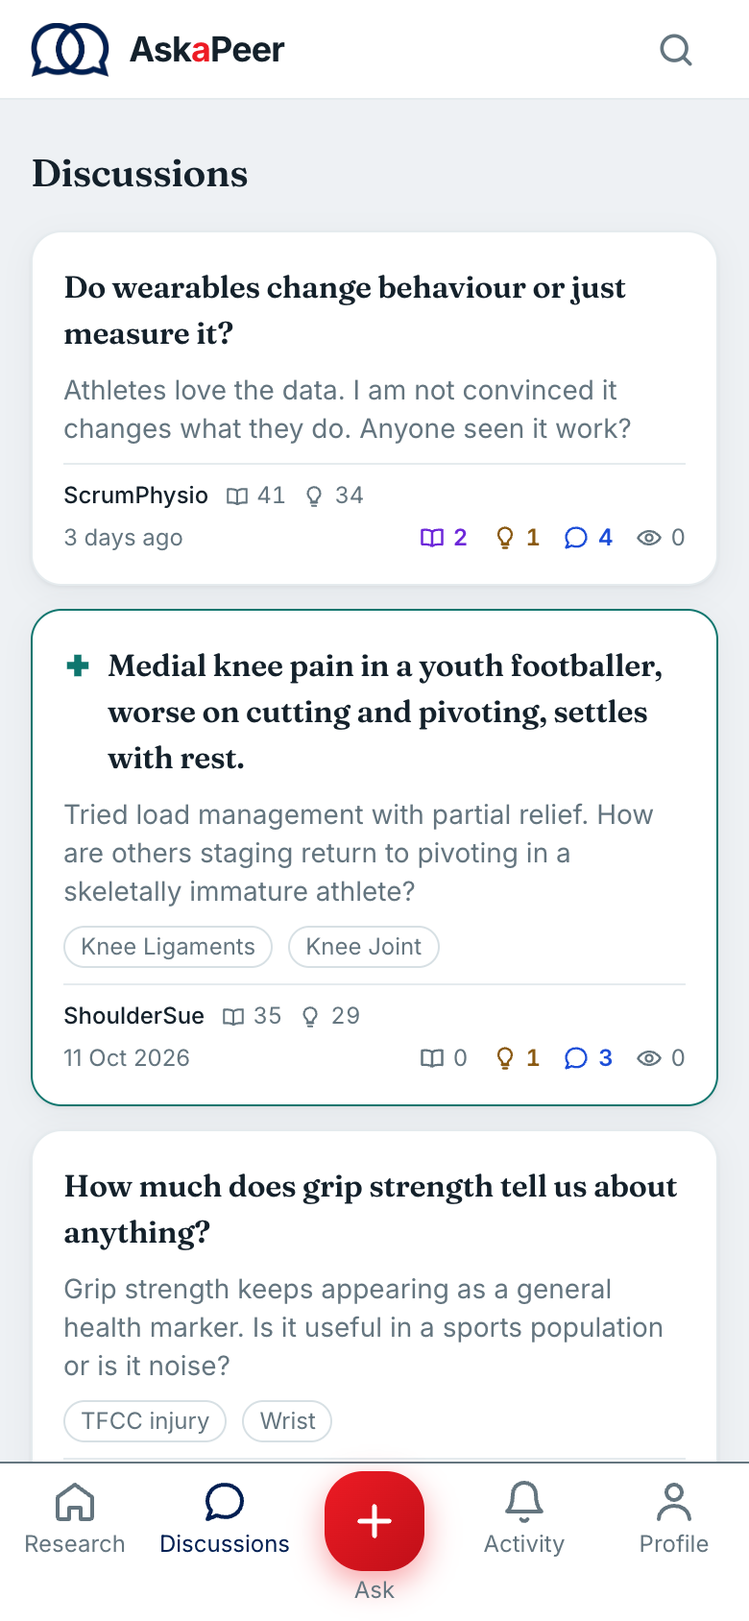
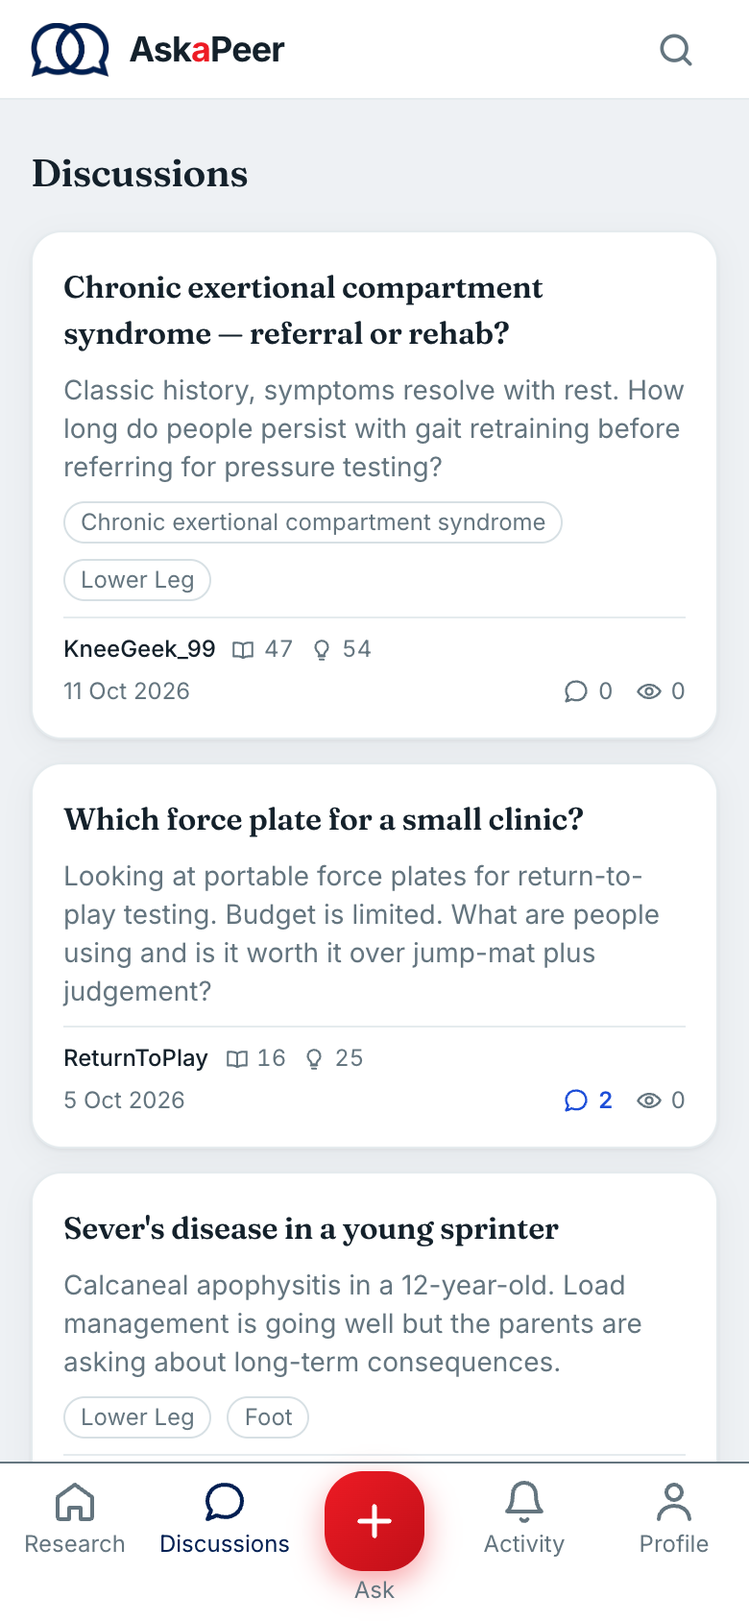
feat(kudos): Insightful and Useful are for answers only
Andrew asked whether questions need the awards; agreed with Adrian on 21 October
2026 that they don't. The awards say whether something helped you, which is an
answer's job; a good question shows in how many people follow it.

- API: the question award routes are removed (a stale client gets a 404).
- migration 0059: awards on questions and their "Your question was marked..."
  notifications deleted (test data); every member's totals recomputed from
  answers alone, so the grey totals now measure how helpful their answers are.
- card: line 2 is the date, answers and following; the question keeps Follow.
- the award button and its action accept answers only.
- seed: awards go to answers; style guide 0.3.1, CLAUDE.md, README,
  DEVELOPMENT.md and the welcome guide copy and screenshots updated.

Changed region(s): [[0.0308, 0.154, 0.9538, 0.8934], [0.0308, 0.6469, 0.0615, 0.6777]]

diff --git a/prototypes/research-feed/public/docs/style-guide.html b/prototypes/research-feed/public/docs/style-guide.html
@@ -1354,8 +1354,8 @@ kudos star+count).</li>
 (with the teal cross for a case, whose card also has a teal border) ·
 snippet · tags · a two-line footer. Line 1: the handle and the author’s
 grey Insightful and Useful totals. Line 2: the date, then the post’s
-Insightful, Useful, answers and following, icons and numbers only,
-always all four.</li>
+answers and following, icons and numbers only, always both. No awards on
+the card: they are given to answers only.</li>
 <li><strong>Answer card</strong> — inside a thread; author row, body,
 the Insightful and Useful buttons, then the text links (Reply, Report,
 Report this handle, Edit, Delete) on their own line. The
@@ -1375,8 +1375,10 @@ initials. Sizes sm/default/lg.</p>
 <h3 id="kudos-controls-insightful-and-useful">8.6 Kudos controls —
 Insightful and Useful</h3>
 <p>The product’s signature interactive elements. Two independent awards:
-anyone but the author may give either, both or neither to a question or
-an answer.</p>
+anyone but the author may give either, both or neither to an
+<strong>answer</strong>. Questions and cases are not awarded (Adrian and
+Andrew, 21 October 2026) — the awards say whether something helped you,
+and a good question shows in how many people follow it.</p>
 <ul>
 <li><strong>Anatomy:</strong> pill button, icon + count + word — “6
 Insightful”, “11 Useful”. The word is spelled out here because this is
@@ -1387,8 +1389,8 @@ in its colour once anyone has awarded it) → awarded by you (its
 <code>-tint</code> background, border and text in its colour). Toggling
 updates the count instantly. <strong>Your own post:</strong> the same
 pill without button behaviour.</li>
-<li><strong>Follow</strong> on a question is the same pill: eye + count
-+ “Follow”, tinted “Following” once you follow.</li>
+<li><strong>Follow</strong> is the question’s only pill: eye + count +
+“Follow”, tinted “Following” once you follow.</li>
 <li>Read-only counts (cards, My Q&amp;A) = icon + number, coloured above
 zero, grey at zero.</li>
 <li><strong>Accessibility:</strong> label as “Mark as insightful” /
@@ -1993,6 +1995,14 @@ library to replace the current emoji placeholders.</li>
 </tr>
 </thead>
 <tbody>
+<tr>
+<td>0.3.1</td>
+<td>2026-10-21</td>
+<td><strong>Awards on answers only.</strong> Insightful and Useful are
+no longer given to questions or cases; the card’s second line is the
+date, answers and following; the question keeps Follow alone. §8.3,
+§8.6.</td>
+</tr>
 <tr>
 <td>0.3</td>
 <td>2026-10-20</td>

diff --git a/apps/web/src/components/PostCard.tsx b/apps/web/src/components/PostCard.tsx
@@ -96,9 +96,11 @@ export async function PostCard({ post }: { post: PostCardDto }) {
         {/*
           Two lines, because they answer different questions (Option B). The first is the
           person: the handle and their standing, in grey. The second is this post: when it was
-          asked, and how it has done — Insightful, Useful, answers and following, each in its
-          own colour, grey at zero. Icons and numbers only, in tabular figures so they line up
-          down a scrolling list.
+          asked, then its answers and following, each in its own colour, grey at zero. Icons
+          and numbers only, in tabular figures so they line up down a scrolling list.
+
+          No Insightful or Useful here: those are awarded to answers only (Adrian and Andrew,
+          21 October 2026). A question's worth shows in how many people follow it.
         */}
         <span
           className="flex flex-col gap-1.5 border-t pt-2 text-xs"
@@ -116,8 +118,9 @@ export async function PostCard({ post }: { post: PostCardDto }) {
 }
 
 /**
- * The post's four counts. Every one is always shown — grey at zero, in its colour once it is
- * above zero (Adrian, 20 October) — so a card never changes shape as a discussion fills up.
+ * The post's two counts, answers and following. Both are always shown — grey at zero, in
+ * their colour once above zero (Adrian, 20 October) — so a card never changes shape as a
+ * discussion fills up.
  *
  * Following is the eye: everyone following the discussion except its author. See
  * `watcherCountSql` in the API.
@@ -126,8 +129,6 @@ async function PostStats({ post }: { post: PostCardDto }) {
   const t = await getTranslations('discussions');
   return (
     <span className="flex shrink-0 items-center gap-3" style={{ fontVariantNumeric: 'tabular-nums' }}>
-      <Stat kind="insightful" count={post.insightfulCount} label={t('insightful', { count: post.insightfulCount })} />
-      <Stat kind="useful" count={post.usefulCount} label={t('useful', { count: post.usefulCount })} />
       <Stat kind="answers" count={post.answerCount} label={t('answersCount', { count: post.answerCount })} />
       <Stat kind="follows" count={post.watcherCount} label={t('followingCount', { count: post.watcherCount })} />
     </span>

diff --git a/apps/api/src/forum/kudos.controller.ts b/apps/api/src/forum/kudos.controller.ts
@@ -17,36 +17,20 @@ import { KudosService } from './kudos.service';
 /** `insightful` | `useful` in the path; anything else is a 400 before the service runs. */
 const KIND = new ParseEnumPipe({ insightful: 'insightful', useful: 'useful' } as const);
 
-
 /**
- * EPIC-D §5. Award / retract kudos on a post or comment; each returns the target's
- * updated count and the caller's new `hasKudosed` state, so the client can settle the
- * toggle without a re-read.
+ * EPIC-D §5. Award / retract Insightful or Useful on an **answer**; each returns the answer's
+ * updated counts and the caller's per-kind state, so the client can settle the toggle without
+ * a re-read.
+ *
+ * ⚠ **Answers only** (Adrian and Andrew, 21 October 2026). The awards say whether something
+ * helped you, which is a property of an answer; the signal for a good question is Follow —
+ * "I want to know this too". The question routes were removed rather than left refusing, so a
+ * stale client gets a 404, and migration 0059 took the existing awards off questions.
  */
 @Controller()
 @UseGuards(JwtAuthGuard, AppAccessGuard)
 export class KudosController {
   constructor(private readonly kudos: KudosService) {}
-
-  @Post('posts/:postId/kudos/:kind')
-  awardPost(
-    @Req() req: Request & { member: AuthedMember },
-    @Param('postId', ParseUUIDPipe) postId: string,
-    @Param('kind', KIND) kind: KudosKind,
-  ) {
-    return this.kudos.award(req.member.handleId!, 'post', postId, kind);
-  }
-
-
-  @Delete('posts/:postId/kudos/:kind')
-  retractPost(
-    @Req() req: Request & { member: AuthedMember },
-    @Param('postId', ParseUUIDPipe) postId: string,
-    @Param('kind', KIND) kind: KudosKind,
-  ) {
-    return this.kudos.retract(req.member.handleId!, 'post', postId, kind);
-  }
-
 
   @Post('comments/:commentId/kudos/:kind')
   awardComment(
@@ -56,7 +40,6 @@ export class KudosController {
   ) {
     return this.kudos.award(req.member.handleId!, 'comment', commentId, kind);
   }
-
 
   @Delete('comments/:commentId/kudos/:kind')
   retractComment(

diff --git a/prototypes/research-feed/public/docs/development.html b/prototypes/research-feed/public/docs/development.html
@@ -2544,13 +2544,20 @@ use.</li>
 dedupe key includes it</strong>, so Insightful and then Useful from the
 same member are two notices rather than one swallowed.</li>
 <li><strong>Screens</strong> (same change): the card is Option B (handle
-and grey author totals, then the date and the post’s four counts, always
-shown, grey at zero); the thread’s question has Insightful, Useful and
-Follow pills, answers the two awards, and every text link sits on its
-own line; a case has a teal border and a teal cross. Icons and colours
-live in <code>components/StatIcons.tsx</code>, and the colours are
-design tokens (“Contribution stats” in
-<code>packages/design-tokens</code>).</li>
+and grey author totals, then the date and the post’s counts, always
+shown, grey at zero); answers carry the two award pills, and every text
+link sits on its own line; a case has a teal border and a teal
+cross.</li>
+<li><strong>Answers only</strong> (Adrian and Andrew, 21 October 2026,
+migration 0059): Insightful and Useful are not given to questions or
+cases. The question routes are gone (a stale client gets a 404),
+existing awards on questions and their notifications were deleted, and
+every member’s totals were recomputed from answers alone. The card’s
+second line is the date, answers and following; the question keeps
+Follow alone. <code>insightfulCount</code> / <code>usefulCount</code> on
+a post DTO are now always 0. Icons and colours live in
+<code>components/StatIcons.tsx</code>, and the colours are design tokens
+(“Contribution stats” in <code>packages/design-tokens</code>).</li>
 <li><strong>Handles are 3–20 characters</strong>
 (<code>HANDLE_MAX_LENGTH</code>, was 30), so the handle and both totals
 fit one phone line. New handles only; the pilot clear-down removes every

diff --git a/apps/web/src/app/(app)/discussions/[postId]/page.tsx b/apps/web/src/app/(app)/discussions/[postId]/page.tsx
@@ -101,29 +101,12 @@ export default async function ThreadPage({ params }: { params: Promise<{ postId:
         )}
         <TagList tags={post.tags} />
         {/*
-          The question's three pills (Option B, 20 October 2026): Insightful, Useful and
-          Follow, each with icon, count and word. They fit on one line at 390px and wrap
-          cleanly when they do not. The author sees the two awards as counts, not buttons —
-          a handle cannot award itself — but Follow stays a button, so a busy thread of your
-          own can still be muted.
+          The question has Follow only. Insightful and Useful are awarded to answers, not
+          questions (Adrian and Andrew, 21 October 2026): they say whether something helped
+          you, and the signal for a good question is wanting to know the answer too. Follow
+          stays a button for the author as well, so a busy thread of your own can be muted.
         */}
         <div className="flex flex-wrap items-center gap-2">
-          <AwardButton
-            kind="insightful"
-            target="post"
-            targetId={post.id}
-            initialCount={post.insightfulCount}
-            initialAwarded={viewerContext.hasInsightfulPost}
-            own={viewerContext.isAuthor}
-          />
-          <AwardButton
-            kind="useful"
-            target="post"
-            targetId={post.id}
-            initialCount={post.usefulCount}
-            initialAwarded={viewerContext.hasUsefulPost}
-            own={viewerContext.isAuthor}
-          />
           <FollowButton
             postId={post.id}
             initialFollowing={viewerContext.isFollowing}

diff --git a/apps/api/scripts/seed-demo.ts b/apps/api/scripts/seed-demo.ts
@@ -581,6 +581,8 @@ async function main(): Promise<void> {
   };
 
   let answerCount = 0;
+  // Awards are for answers only (migration 0059), so the answers are what the seed awards.
+  const answersMade: { id: string; authorId: string }[] = [];
   for (const [i, post] of made.entries()) {
     // Deliberately uneven: every fifth thread stays unanswered so the empty state is real.
     const n = i % 5 === 0 ? 0 : Math.floor(rand() * 6) + 1;
@@ -592,6 +594,7 @@ async function main(): Promise<void> {
         .values({ postId: post.id, handleId: author.id, body: pick(ANSWERS), createdAt })
         .returning({ id: comments.id });
       answerCount++;
+      answersMade.push({ id: answer.id, authorId: author.id });
       await addKudos('comment', answer.id, author.id, Math.floor(rand() * 7));
 
       // A nested reply on roughly a third of answers, so the ranked-thread layout has
@@ -608,14 +611,13 @@ async function main(): Promise<void> {
         answerCount++;
       }
     }
-    await addKudos('post', post.id, post.authorId, Math.floor(rand() * 9));
   }
   console.log(`${answerCount} answers and replies.`);
 
   // Concentrate kudos on three handles so at least one clears the badge floor (50).
   for (const star of authors.slice(0, 3)) {
-    const theirPosts = made.filter((m) => m.authorId === star.id).slice(0, 6);
-    for (const p of theirPosts) await addKudos('post', p.id, star.id, 8);
+    const theirAnswers = answersMade.filter((m) => m.authorId === star.id).slice(0, 8);
+    for (const a of theirAnswers) await addKudos('comment', a.id, star.id, 8);
   }
 
   // Authoritative totals in Postgres…

diff --git a/apps/web/src/app/(app)/discussions/[postId]/actions.ts b/apps/web/src/app/(app)/discussions/[postId]/actions.ts
@@ -5,7 +5,8 @@ import { redirect } from 'next/navigation';
 import { API_ORIGIN } from '@/lib/api';
 import { getAccessToken } from '@/lib/session';
 
-type KudosTarget = 'post' | 'comment';
+/** Answers only — the API has no award routes for questions (migration 0059). */
+type KudosTarget = 'comment';
 type KudosKind = 'insightful' | 'useful';
 /** A target's kudos after a toggle: both kinds, and which the caller now holds. */
 export type KudosResult = {
@@ -34,7 +35,7 @@ export async function toggleKudosAction(
   currentlyAwarded: boolean,
 ): Promise<KudosResult> {
   const token = await authedToken();
-  const path = `${target === 'post' ? 'posts' : 'comments'}/${targetId}/kudos/${kind}`;
+  const path = `comments/${targetId}/kudos/${kind}`;
   const res = await fetch(`${API_ORIGIN}/v1/${path}`, {
     method: currentlyAwarded ? 'DELETE' : 'POST',
     headers: { Authorization: `Bearer ${token}` },

diff --git a/apps/web/src/app/(app)/discussions/[postId]/AwardButton.tsx b/apps/web/src/app/(app)/discussions/[postId]/AwardButton.tsx
@@ -28,7 +28,8 @@ export function AwardButton({
   own = false,
 }: {
   kind: Kind;
-  target: 'post' | 'comment';
+  /** Answers only (21 October 2026): questions are recognised by Follow, not awards. */
+  target: 'comment';
   targetId: string;
   initialCount: number;
   initialAwarded: boolean;

diff --git a/README.md b/README.md
@@ -8,7 +8,7 @@ A verified-only, pseudonymous professional network for sports medicine practitio
 
 Pre-sign-off on scope; the production build is underway. The [PRD](docs/askapeer-prd-v0.1.md) is in stakeholder review, with 8 open decisions (FD-1 through FD-8, see PRD §15).
 
-The application is being built in `apps/` as thin, tracer-bullet vertical slices — a NestJS API and a Next.js web app (Postgres + Redis). It deploys to Fly.io (London) in a *prove-then-migrate* phase, ahead of an AWS `eu-west-2` production target. Live so far: **S0–S5** (register → verify → pick a handle → post a question → answer → kudos and ranking); **notifications and the Activity tab** (S10 — an in-app inbox for replies, kudos and account-status changes, per-type delivery preferences, and your own questions and answers); a **read-only admin console** (members, verification journeys, review queue, immutable audit) with **verification actions** (approve / reject / request more info); and the **moderation** slices — **member reporting** (report a post, comment, or handle, S11b), a **moderation queue** (priority-ordered triage; remove content with kudos clawback, warn, or dismiss, S11c), **handle enforcement** (suspend, expel, or force-rename a handle, S11d), and the **audited reveal-identity** action (the single logged exception to pseudonymity, S11e); **case discussions** (S9 — the de-identified clinical template, a checklist and attestation that must both complete before anyone else can see the case, and private drafts); and the **correction loop** (S11f — a moderator can send a case back to its author to fix, hiding it until they re-attest while preserving the answers and kudos underneath it). The forum carries Andrew's full **clinical tag taxonomy** — **1,230 nodes**, covering muscles, ligaments, bones and conditions across six body regions — plus a seventh root for systemic disease, which belongs to no region at all — picked in the composer through a search-and-browse bottom sheet; 175 of those tags carry search synonyms, so the words clinicians actually write find the tag they mean. **Search** (S7, S16, S17) runs from the app bar over **both** corpora — discussions and the literature feed, tabbed with a count on each — with **spelling correction** (a search that finds nothing is retried with its words spelt right, in discussions, papers and My Research alike, and the screen says what it changed) and folded-away filters; a category or a tag subtree searches on its own, and every search is a shareable URL. The **Research** tab ("My Research") carries the literature feed (S8): sports medicine and physiotherapy literature ingested twice daily from Europe PMC and OpenAlex, deduplicated, classified against the clinical taxonomy and ranked on evidence quality and recency, with the abstract readable in the app. The Research tab is driven by a **criteria panel** — keyword, type of paper, how far back, and how it is sorted — which opens on arrival and folds away once you press Apply; the criteria you last used come back with the panel, every search is a shareable URL, and the screen shows nothing until you have asked it something — though what you asked for survives leaving the tab and coming back. A line under the heading says what the page is for, and the period control names the earliest year the literature reaches. It is deliberately **not personalised**: two members asking the same question see the same page. Any article can be **saved to a private list** — the control is on the result card itself, so a paper can be set aside without opening it, and the list is counted beside the heading, kept at `/feed/saved`, and still shows a paper that is later retracted, with the retraction marked rather than the article dropped. Tapping the brand in the app bar returns any screen to the top. **Email is live** — sign-in links, verification outcomes, replies, kudos and moderation notices all send through Postmark, with bounces feeding a suppression list; sign-in offers a six-digit code alongside the link, because a link cannot reach an app installed on an iOS home screen. Members can **follow a discussion** (S15) — subscribe to a thread whether or not they wrote in it, hear about later replies as a single collapsing notification rather than one per reply, and mute it outright; answering a question now subscribes you to it, which is also what makes muting your own busy thread possible. Members can **correct their own contributions** — a question, an answer or a published case — for as long as nothing has responded to it and no more than 24 hours, whichever closes first; correcting a case re-takes the de-identification attestation in the same step, so the promise always describes the text on the page. Asking a question no longer asks for a category: tags carry the clinical meaning, and the kind of post is what the composer already knows. An **administrator console for the tag vocabulary** (`/admin/config/tags`) maintains synonyms — with a dry run showing what a change would match before it is saved — and adds, moves, retires and merges tags, all audited. **Kudos is two awards** (October 2026): **Insightful** and **Useful**, given independently to a question or an answer, shown in colour on the post and in grey as the author's own totals beside their handle; answers are ranked by the two together. **Live is a closed pilot** (October 2026): registration is by invitation only, and an invited colleague is approved on registering — verification is still simulated, so the invitation list is the access control. See [DEVELOPMENT.md](DEVELOPMENT.md) for how to run it and where things stand. The two prototypes below remain as disposable references and are not the production build.
+The application is being built in `apps/` as thin, tracer-bullet vertical slices — a NestJS API and a Next.js web app (Postgres + Redis). It deploys to Fly.io (London) in a *prove-then-migrate* phase, ahead of an AWS `eu-west-2` production target. Live so far: **S0–S5** (register → verify → pick a handle → post a question → answer → kudos and ranking); **notifications and the Activity tab** (S10 — an in-app inbox for replies, kudos and account-status changes, per-type delivery preferences, and your own questions and answers); a **read-only admin console** (members, verification journeys, review queue, immutable audit) with **verification actions** (approve / reject / request more info); and the **moderation** slices — **member reporting** (report a post, comment, or handle, S11b), a **moderation queue** (priority-ordered triage; remove content with kudos clawback, warn, or dismiss, S11c), **handle enforcement** (suspend, expel, or force-rename a handle, S11d), and the **audited reveal-identity** action (the single logged exception to pseudonymity, S11e); **case discussions** (S9 — the de-identified clinical template, a checklist and attestation that must both complete before anyone else can see the case, and private drafts); and the **correction loop** (S11f — a moderator can send a case back to its author to fix, hiding it until they re-attest while preserving the answers and kudos underneath it). The forum carries Andrew's full **clinical tag taxonomy** — **1,230 nodes**, covering muscles, ligaments, bones and conditions across six body regions — plus a seventh root for systemic disease, which belongs to no region at all — picked in the composer through a search-and-browse bottom sheet; 175 of those tags carry search synonyms, so the words clinicians actually write find the tag they mean. **Search** (S7, S16, S17) runs from the app bar over **both** corpora — discussions and the literature feed, tabbed with a count on each — with **spelling correction** (a search that finds nothing is retried with its words spelt right, in discussions, papers and My Research alike, and the screen says what it changed) and folded-away filters; a category or a tag subtree searches on its own, and every search is a shareable URL. The **Research** tab ("My Research") carries the literature feed (S8): sports medicine and physiotherapy literature ingested twice daily from Europe PMC and OpenAlex, deduplicated, classified against the clinical taxonomy and ranked on evidence quality and recency, with the abstract readable in the app. The Research tab is driven by a **criteria panel** — keyword, type of paper, how far back, and how it is sorted — which opens on arrival and folds away once you press Apply; the criteria you last used come back with the panel, every search is a shareable URL, and the screen shows nothing until you have asked it something — though what you asked for survives leaving the tab and coming back. A line under the heading says what the page is for, and the period control names the earliest year the literature reaches. It is deliberately **not personalised**: two members asking the same question see the same page. Any article can be **saved to a private list** — the control is on the result card itself, so a paper can be set aside without opening it, and the list is counted beside the heading, kept at `/feed/saved`, and still shows a paper that is later retracted, with the retraction marked rather than the article dropped. Tapping the brand in the app bar returns any screen to the top. **Email is live** — sign-in links, verification outcomes, replies, kudos and moderation notices all send through Postmark, with bounces feeding a suppression list; sign-in offers a six-digit code alongside the link, because a link cannot reach an app installed on an iOS home screen. Members can **follow a discussion** (S15) — subscribe to a thread whether or not they wrote in it, hear about later replies as a single collapsing notification rather than one per reply, and mute it outright; answering a question now subscribes you to it, which is also what makes muting your own busy thread possible. Members can **correct their own contributions** — a question, an answer or a published case — for as long as nothing has responded to it and no more than 24 hours, whichever closes first; correcting a case re-takes the de-identification attestation in the same step, so the promise always describes the text on the page. Asking a question no longer asks for a category: tags carry the clinical meaning, and the kind of post is what the composer already knows. An **administrator console for the tag vocabulary** (`/admin/config/tags`) maintains synonyms — with a dry run showing what a change would match before it is saved — and adds, moves, retires and merges tags, all audited. **Kudos is two awards** (October 2026): **Insightful** and **Useful**, given independently to an answer (a good question shows in how many people follow it), shown in colour on the answer and in grey as the author's own totals beside their handle; answers are ranked by the two together. **Live is a closed pilot** (October 2026): registration is by invitation only, and an invited colleague is approved on registering — verification is still simulated, so the invitation list is the access control. See [DEVELOPMENT.md](DEVELOPMENT.md) for how to run it and where things stand. The two prototypes below remain as disposable references and are not the production build.
 
 ## What's in this repo
 

diff --git a/docs/style-guide/STYLE_GUIDE.md b/docs/style-guide/STYLE_GUIDE.md
@@ -630,8 +630,8 @@ The primary content container. `--color-surface`, `1px --color-border`,
 - **Discussion card** (Option B, 20 October 2026) — title (with the teal cross
   for a case, whose card also has a teal border) · snippet · tags · a two-line
   footer. Line 1: the handle and the author's grey Insightful and Useful totals.
-  Line 2: the date, then the post's Insightful, Useful, answers and following,
-  icons and numbers only, always all four.
+  Line 2: the date, then the post's answers and following, icons and numbers
+  only, always both. No awards on the card: they are given to answers only.
 - **Answer card** — inside a thread; author row, body, the Insightful and Useful
   buttons, then the text links (Reply, Report, Report this handle, Edit, Delete)
   on their own line. The
@@ -653,7 +653,9 @@ Sizes sm/default/lg.
 ### 8.6 Kudos controls — Insightful and Useful
 
 The product's signature interactive elements. Two independent awards: anyone but
-the author may give either, both or neither to a question or an answer.
+the author may give either, both or neither to an **answer**. Questions and cases
+are not awarded (Adrian and Andrew, 21 October 2026) — the awards say whether
+something helped you, and a good question shows in how many people follow it.
 
 - **Anatomy:** pill button, icon + count + word — "6 Insightful", "11 Useful". The
   word is spelled out here because this is where a member chooses between them; on
@@ -662,7 +664,7 @@ the author may give either, both or neither to a question or an answer.
   has awarded it) → awarded by you (its `-tint` background, border and text in its
   colour). Toggling updates the count instantly. **Your own post:** the same pill
   without button behaviour.
-- **Follow** on a question is the same pill: eye + count + "Follow", tinted
+- **Follow** is the question's only pill: eye + count + "Follow", tinted
   "Following" once you follow.
 - Read-only counts (cards, My Q&A) = icon + number, coloured above zero, grey at zero.
 - **Accessibility:** label as "Mark as insightful" / "Mark as useful" with the count;
@@ -1081,6 +1083,7 @@ of changing the values, not the markup — matching the intent already stated in
 
 | Version | Date | Change |
 |---|---|---|
+| 0.3.1 | 2026-10-21 | **Awards on answers only.** Insightful and Useful are no longer given to questions or cases; the card's second line is the date, answers and following; the question keeps Follow alone. §8.3, §8.6. |
 | 0.3 | 2026-10-20 | **Two kinds of kudos.** The gold star becomes **Insightful** (book) and **Useful** (lightbulb); the card footer becomes two lines (person, then post); four stat colours with tints replace "kudos gold is the one status colour"; a teal cross marks a clinical case; handles are capped at 20 characters. §0.1, §1.4, §2.1, §2.5, §6, §8.3, §8.4, §8.6, §8.13, §8.14, §9, §10, §11. |
 | 0.2 | 2026-07-25 | **Editorial typography pass.** Introduced a **Fraunces** (serif display) + **Inter** (sans text/UI) pairing for a WHO/Rolex register; added the eyebrow → serif title → accent-keyline pattern (§3.4) and a confident type scale. Updated §3, §12 tokens, and the live showcase. Palette, components and safety patterns unchanged — a theming pass, not a redesign. |
 | 0.1 | 2026-07-25 | Initial style guide & design system: foundations, colour, type, spacing, elevation, iconography, motion, component library, accessibility, voice & tone, anonymity/safety UX, and token reference. Codifies the mobile look-and-feel prototype. |

diff --git a/CLAUDE.md b/CLAUDE.md
@@ -45,7 +45,7 @@ See `README.md` for what currently exists in this repo (the PRD plus two early, 
 The web app (`apps/web`) is themed by the AskaPeer design system. `docs/style-guide/STYLE_GUIDE.md` is the canonical source — consult it before building or restyling any screen. Applying it is a **theming pass**, not a rewrite: `src/app/globals.css` defines the tokens once (imported by the root layout, so every page inherits them), and components reference semantic CSS variables. Load-bearing rules for any new page or component:
 
 - **Reference semantic tokens; never hardcode colours.** Use `var(--color-fg)`, `var(--color-accent)`, `var(--color-ok)`, `var(--color-bad)`, `var(--color-surface)`, etc. Do **not** put raw hex in components (pure white/black on a coloured fill is the only exception) and do **not** use default Tailwind palette classes (`bg-slate-100`, `text-sky-500`, …) — they ignore the theme and don't adapt to dark mode. `src/app/globals.css` is the *only* place raw colour values belong.
-- **Kudos is two awards, Insightful (open book) and Useful (lightbulb)**, since October 2026; the gold star is retired. Each contribution stat has its own colour and nothing else uses it: `--color-insightful`, `--color-useful`, `--color-answers`, `--color-follows` (each with a `-tint` for a pressed button). Always pair the colour with the stat's icon, show a zero in grey, and show the author's own totals in grey beside the handle (grey = the person, colour = the post). Teal (`--color-category-teal`) marks a clinical case: the card border and the cross before its title.
+- **Kudos is two awards, Insightful (open book) and Useful (lightbulb)**, since October 2026, given to **answers only** — a question is recognised by its Follow count; the gold star is retired. Each contribution stat has its own colour and nothing else uses it: `--color-insightful`, `--color-useful`, `--color-answers`, `--color-follows` (each with a `-tint` for a pressed button). Always pair the colour with the stat's icon, show a zero in grey, and show the author's own totals in grey beside the handle (grey = the person, colour = the post). Teal (`--color-category-teal`) marks a clinical case: the card border and the cross before its title.
 - **Spark red (`--color-spark`) is reserved** for the single Ask affordance and the wordmark. Destructive/error uses `--color-danger`, never spark.
 - **`--color-warn` is functional and admin-only** (moderation "needs a human" states) — never member-facing, never confused with kudos gold.
 - **Serif (`--font-display`, Fraunces) is for headings only**; body/UI is Inter. Meet WCAG 2.2 AA contrast (the guide's §9 notes which values are text-safe).

diff --git a/DEVELOPMENT.md b/DEVELOPMENT.md
@@ -1765,9 +1765,13 @@ the "Discussion Card — Option B, Revised" page on the docs site.
 - **The kudos notification carries `kind`, and its dedupe key includes it**, so Insightful and
   then Useful from the same member are two notices rather than one swallowed.
 - **Screens** (same change): the card is Option B (handle and grey author totals, then the date
-  and the post's four counts, always shown, grey at zero); the thread's question has Insightful,
-  Useful and Follow pills, answers the two awards, and every text link sits on its own line; a
-  case has a teal border and a teal cross. Icons and colours live in `components/StatIcons.tsx`,
+  and the post's counts, always shown, grey at zero); answers carry the two award pills, and
+  every text link sits on its own line; a case has a teal border and a teal cross.
+- **Answers only** (Adrian and Andrew, 21 October 2026, migration 0059): Insightful and Useful
+  are not given to questions or cases. The question routes are gone (a stale client gets a 404),
+  existing awards on questions and their notifications were deleted, and every member's totals
+  were recomputed from answers alone. The card's second line is the date, answers and following;
+  the question keeps Follow alone. `insightfulCount` / `usefulCount` on a post DTO are now always 0. Icons and colours live in `components/StatIcons.tsx`,
   and the colours are design tokens ("Contribution stats" in `packages/design-tokens`).
 - **Handles are 3–20 characters** (`HANDLE_MAX_LENGTH`, was 30), so the handle and both totals
   fit one phone line. New handles only; the pilot clear-down removes every existing one.
